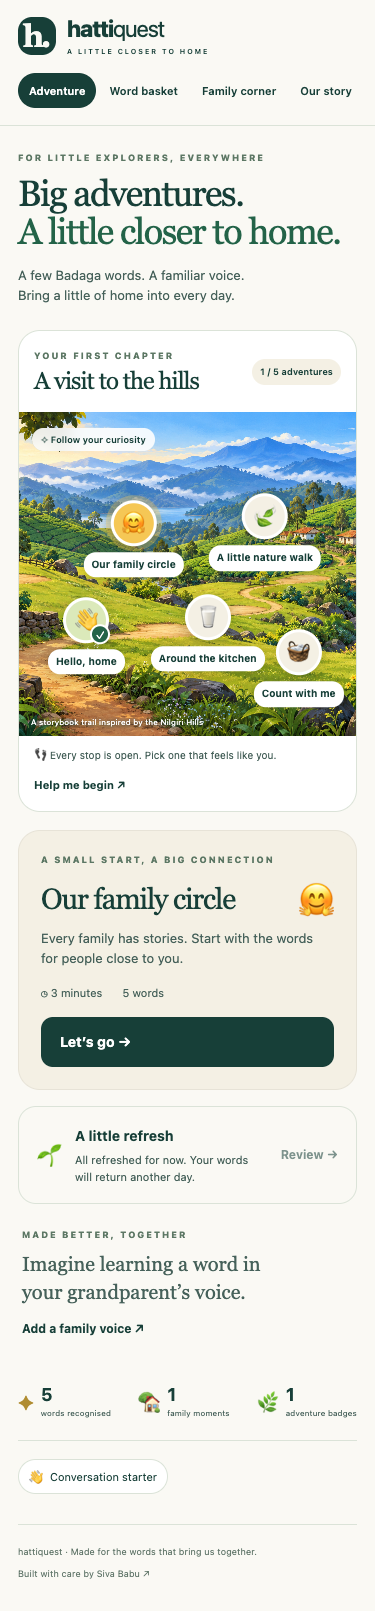
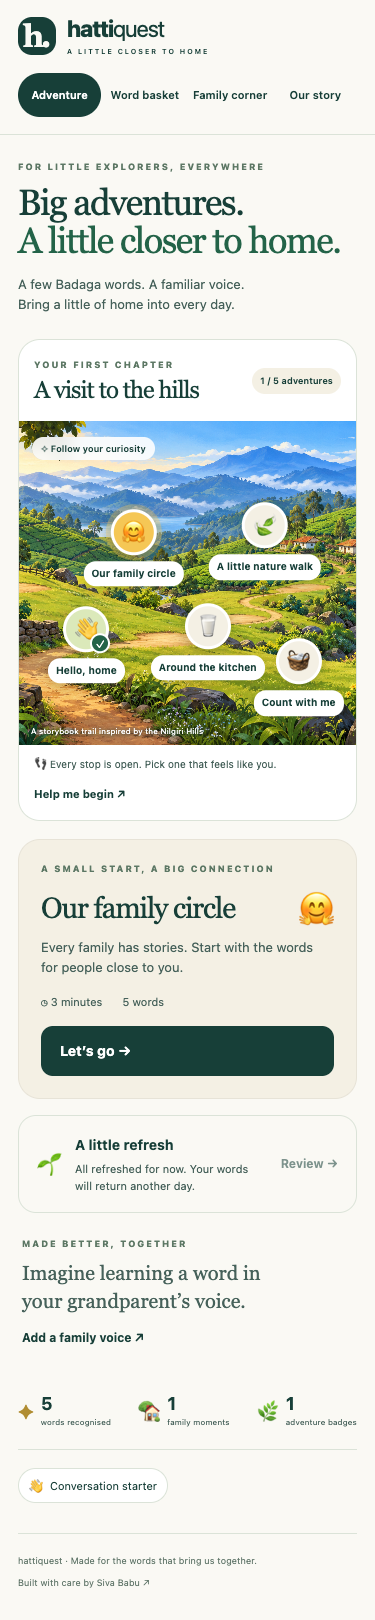
Document passing cross-platform checks and refresh mobile preview

diff --git a/docs/VALIDATION.md b/docs/VALIDATION.md
@@ -21,6 +21,6 @@ Desktop, mobile and founder-story screenshots are in `docs/screenshots/`. Any re
 
 Python checks include a mocked successful model response, malformed JSON, unknown IDs, duplicate terms, changed topics, extra generated fields and a provider outage. These establish the selection contract and fallback. No live provider, model quality, Badaga speech recognition or text-to-speech system has been tested or is claimed.
 
-The current Starlette test client emits a deprecation warning about its httpx adapter; it does not cause a test failure. Public CI repeats Python checks on 3.12 and 3.13 and runs the browser workflow on Linux.
+The current Starlette test client emits a deprecation warning about its httpx adapter; it does not cause a test failure. [Public CI passed](https://github.com/sivalinb/hatti-quest/actions/runs/37174748583) with Python checks on 3.12 and 3.13 and the complete browser workflow on Linux. Mobile navigation uses equal columns to accommodate different system fonts across platforms.
 
 Docker packaging is supplied but was not built locally because Docker is unavailable on the development machine. A public hosted deployment has not been created. Fluent Badaga speaker review, learning effectiveness with children, family dialect coverage and Safari/mobile-device microphone compatibility remain to be evaluated with community participation.

diff --git a/README.md b/README.md
@@ -4,6 +4,8 @@
 
 A Python web app for Badaga children growing up outside India: playful, short language adventures that continue in conversations with family.
 
+[![Learning checks](https://github.com/sivalinb/hatti-quest/actions/workflows/ci.yml/badge.svg)](https://github.com/sivalinb/hatti-quest/actions/workflows/ci.yml)
+
 ![Siva Babu’s illustrated founder story: roots, distance, and building a way to connect](static/assets/founder-story.png)
 
 ## Why I’m building this
